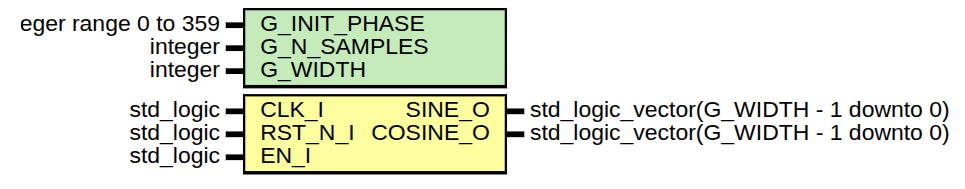
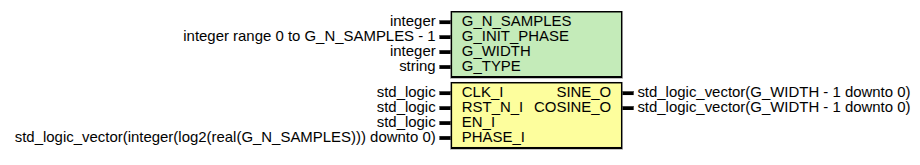
añadido opción de fase de entrada

diff --git a/README.md b/README.md
@@ -1,9 +1,37 @@
 # DDS_vhdl
 This is the file to generate a DDS using VHDL.
 
+This module has two options:
+
+    - Generate a continuous signal every clock cycle that the enable port is active. (*CONT*)
+    - Generate the specific phase of the signal that the user sets in the phase port. (*PHASE*)
+
 Waves generated:
 - Sin
 - Cos
+
+## Instance
+
+``` vhdl
+DDS_trig_inst : entity work.DDS_trig
+  generic map (
+    G_N_SAMPLES => G_N_SAMPLES,
+    G_INIT_PHASE => G_INIT_PHASE,
+    G_WIDTH => G_WIDTH,
+    G_TYPE => G_TYPE    -- CONT / PHASE
+  )
+  port map (
+    CLK_I => CLK_I,
+    RST_N_I => RST_N_I,
+    EN_I => EN_I,
+    PHASE_I => PHASE_I,
+    SINE_O => SINE_O,
+    COSINE_O => COSINE_O
+  );
+
+```
+
+### Images
 
 ![if](./img/if.png)
 
